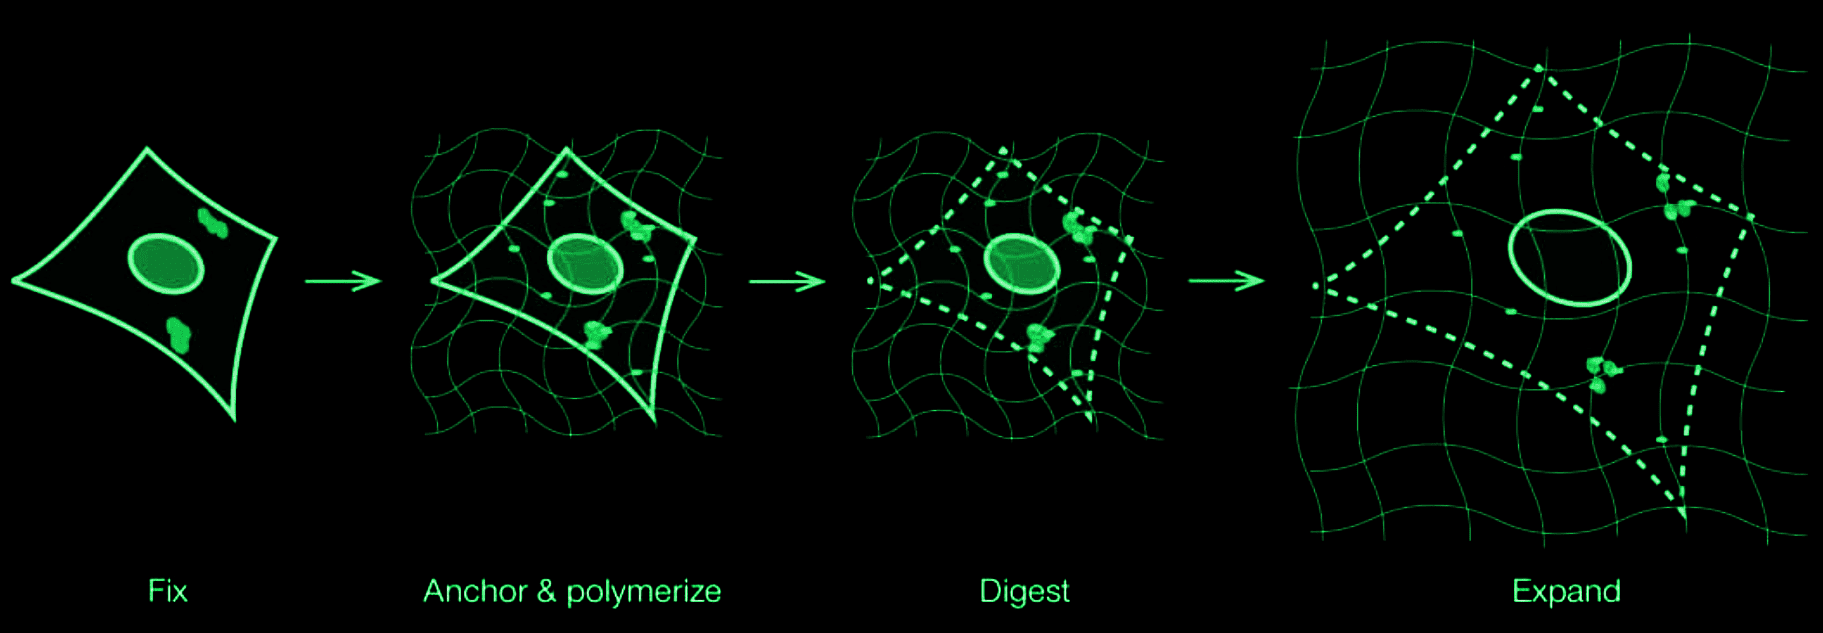
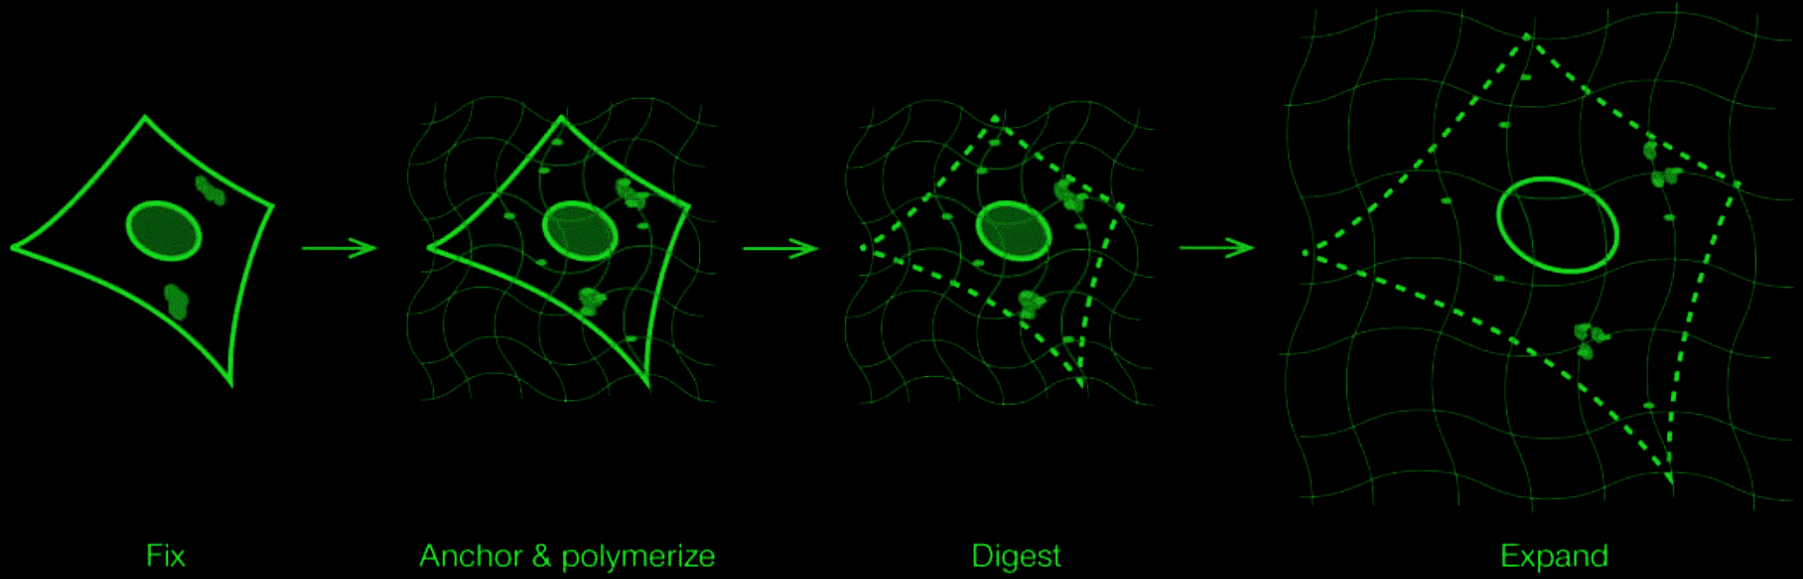
Adjust saturation

diff --git a/_duality-research/connectomics.md b/_duality-research/connectomics.md
@@ -8,7 +8,7 @@ hidden: true
 
 
 
-<p align="center"><img src="/images/fly_green.png" alt="Alt text" style="max-width: 70%; height: auto; border-radius: 10px; margin-bottom: 0;"></p>
+<p align="center"><img src="/images/fly green.png" alt="Alt text" style="max-width: 70%; height: auto; border-radius: 10px; margin-bottom: 0;"></p>
 <br>
 
 <h3 align="center">1. Overview</h3>
